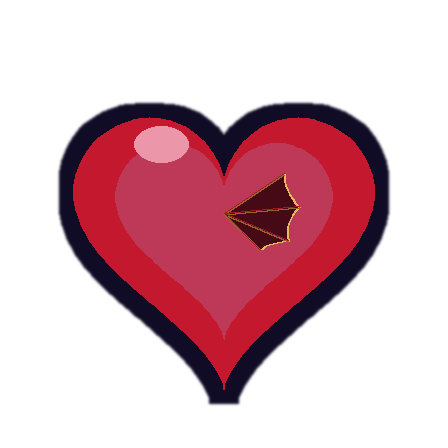
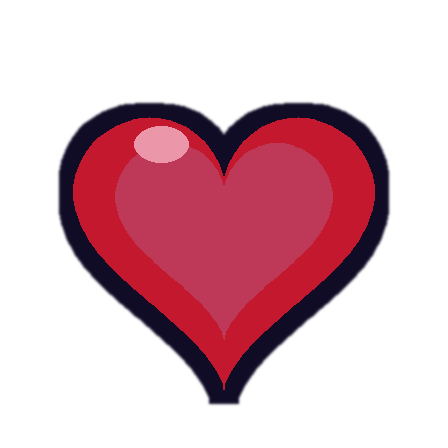
Added heart emote fix

Changed region(s): [[0.5, 0.375, 0.6875, 0.5625]]

diff --git a/index.html b/index.html
@@ -10341,7 +10341,7 @@
       <a class="proj-btn" href="images/twitch/Nightwing/Emotes/gem_448.png?v=49acf15f" target="_blank" rel="noopener" title="Nightwing set - Twitch emote: Gem">Gem</a>
       <a class="proj-btn" href="images/twitch/Nightwing/Emotes/gg_448.png?v=7e1b6432" target="_blank" rel="noopener" title="Nightwing set - Twitch emote: Gg">Gg</a>
       <a class="proj-btn" href="images/twitch/Nightwing/Emotes/happy_448.png?v=2163f6e5" target="_blank" rel="noopener" title="Nightwing set - Twitch emote: Happy">Happy</a>
-      <a class="proj-btn" href="images/twitch/Nightwing/Emotes/heart_448.png?v=786b790f" target="_blank" rel="noopener" title="Nightwing set - Twitch emote: Heart">Heart</a>
+      <a class="proj-btn" href="images/twitch/Nightwing/Emotes/heart_448.png?v=c2bcab6a" target="_blank" rel="noopener" title="Nightwing set - Twitch emote: Heart">Heart</a>
       <a class="proj-btn" href="images/twitch/Nightwing/Emotes/love_448.png?v=72cb5f86" target="_blank" rel="noopener" title="Nightwing set - Twitch emote: Love">Love</a>
       <a class="proj-btn" href="images/twitch/Nightwing/Emotes/shock_448.png?v=fe542c61" target="_blank" rel="noopener" title="Nightwing set - Twitch emote: Shock">Shock</a>
       <a class="proj-btn" href="images/twitch/Nightwing/Emotes/sleep_448.png?v=6c04f044" target="_blank" rel="noopener" title="Nightwing set - Twitch emote: Sleep">Sleep</a>
@@ -10504,7 +10504,7 @@
       <a class="proj-btn" href="images/twitch/Crimson/Emotes/drop_448.png?v=9a19de70" target="_blank" rel="noopener" title="Crimson set - Twitch emote: Drop">Drop</a>
       <a class="proj-btn" href="images/twitch/Crimson/Emotes/gg_448.png?v=8e40ec82" target="_blank" rel="noopener" title="Crimson set - Twitch emote: Gg">Gg</a>
       <a class="proj-btn" href="images/twitch/Crimson/Emotes/happy_448.png?v=d0532f27" target="_blank" rel="noopener" title="Crimson set - Twitch emote: Happy">Happy</a>
-      <a class="proj-btn" href="images/twitch/Crimson/Emotes/heart_448.png?v=002d2751" target="_blank" rel="noopener" title="Crimson set - Twitch emote: Heart">Heart</a>
+      <a class="proj-btn" href="images/twitch/Crimson/Emotes/heart_448.png?v=092bfe10" target="_blank" rel="noopener" title="Crimson set - Twitch emote: Heart">Heart</a>
       <a class="proj-btn" href="images/twitch/Crimson/Emotes/love_448.png?v=3a4da739" target="_blank" rel="noopener" title="Crimson set - Twitch emote: Love">Love</a>
       <a class="proj-btn" href="images/twitch/Crimson/Emotes/shock_448.png?v=6373dda4" target="_blank" rel="noopener" title="Crimson set - Twitch emote: Shock">Shock</a>
       <a class="proj-btn" href="images/twitch/Crimson/Emotes/sleep_448.png?v=5e3cdea8" target="_blank" rel="noopener" title="Crimson set - Twitch emote: Sleep">Sleep</a>

diff --git a/tools/make_nightwing.py b/tools/make_nightwing.py
@@ -377,9 +377,6 @@ def emote_heart(S=448):
     hl = [(c + (x - c) * 0.72, c + 6 + (y - c - 6) * 0.72 - 6) for x, y in pts]
     d.polygon(hl, fill=(190, 56, 88, 255))
     d.ellipse((c - 90, c - 98, c - 36, c - 62), fill=(236, 150, 170, 255))
-    img = Image.alpha_composite(wings((S, S), c, c - 10, 0.16, flip=True), img)
-    img = Image.alpha_composite(wings((S, S), c, c - 10, 0.16), img) if False else img
-    img = Image.alpha_composite(img, wings((S, S), c, c - 10, 0.16))
     return outlined(img, None)
 
 
